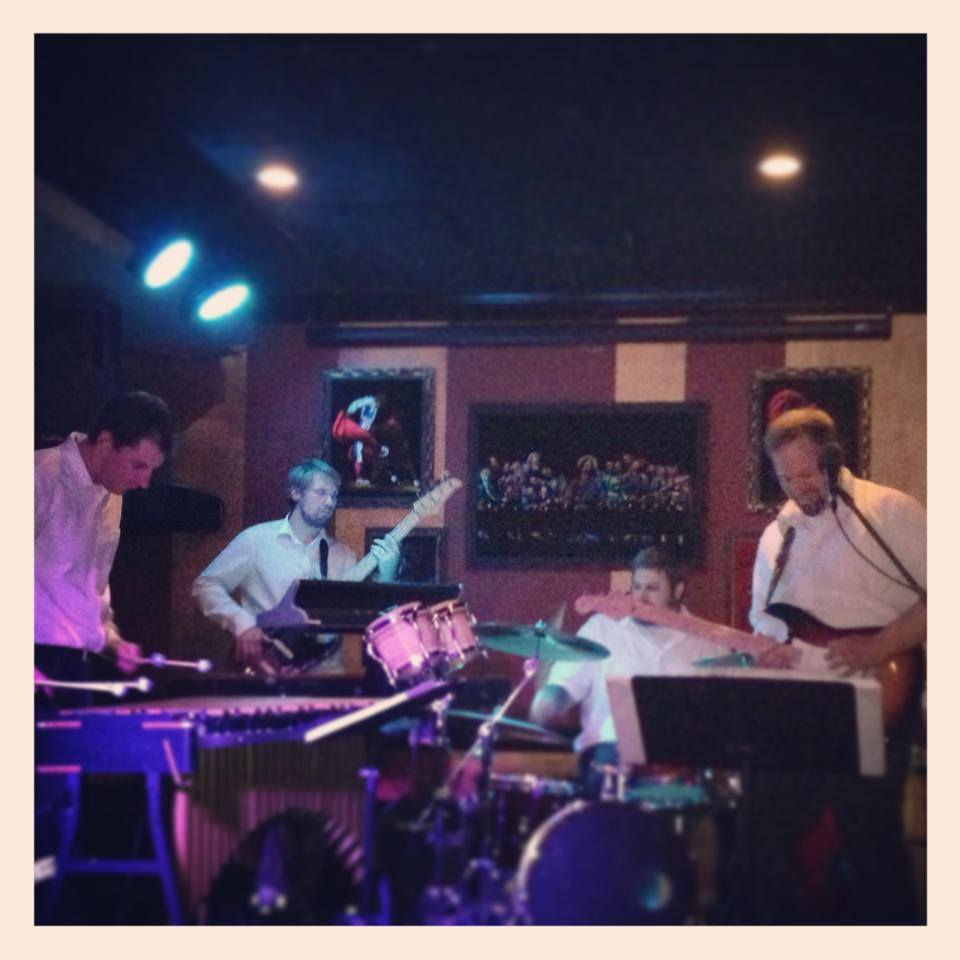
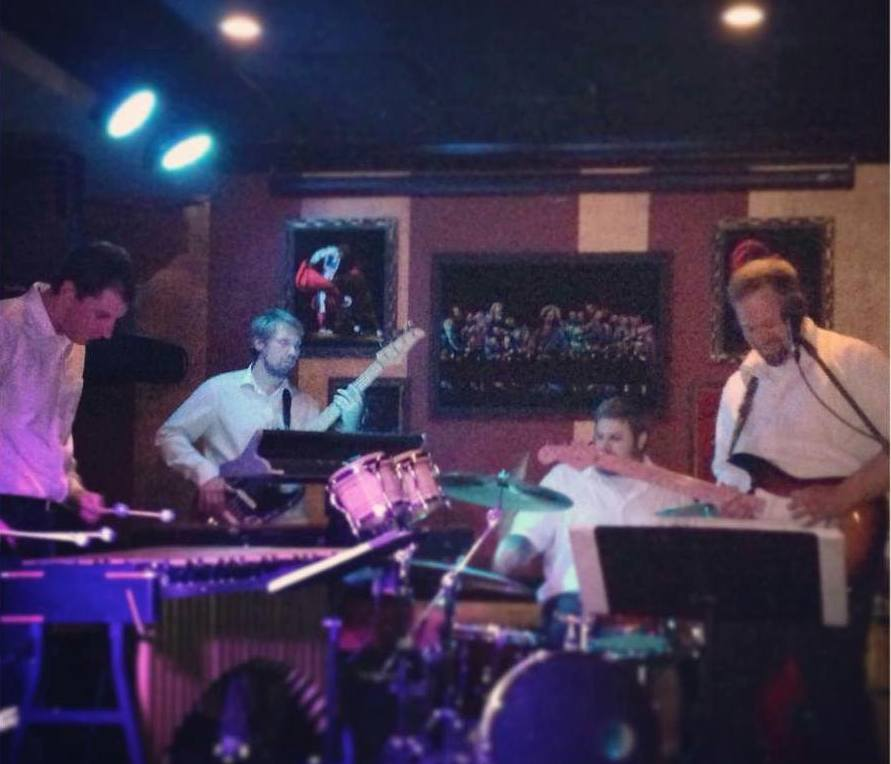
Good Vibes Inc.
Added a Good Vibes Inc. section to the live music page. Image resized.

diff --git a/music.html b/music.html
@@ -88,7 +88,7 @@ body {
 					</td>
 				</tr>
 				<tr>	
-					<td width="460" height="300" valign="top" align="right" style="text-align:left; padding: 15px 0px;">
+					<td width="460" height="340" valign="top" align="right" style="text-align:left; padding: 15px 0px;">
 					  <a href="images/shady_groove_duo.jpg"><img src="images/shady_groove_duo.jpg" alt="Coming soon..." style="float:right; padding: 5px 5px;" 
 					  height="160" width="200"/></a>Shady Groove is an acoustic duo with 15 years experience playing live throughout the 
 					  Philadelphia area. Known for their impeccable harmonies and quality musicianship, their repertoire covers all types and 
@@ -106,11 +106,27 @@ body {
 					</td>
 				</tr>
 				<tr>	
-					<td width="460" height="300" valign="top" align="right" style="text-align:left; padding: 15px 0px;">
+					<td width="460" height="235" valign="top" align="right" style="text-align:left; padding: 15px 0px;">
 					  <a href="images/shady_groove_quartet.jpg"><img src="images/shady_groove_quartet.jpg" alt="Coming soon..." style="float:right; padding: 5px 5px;" 
 					  height="185" width="245"/></a>The Shady Groove Quartet is an electrified version of the Shady Groove duo. With a similar 
 					  repertoire expanding through many genres from the last 6 decades, The Shady Groove Quartet provides entertainment for 
 					  all affairs, from bars and restaurant gigs to weddings and private parties.  
+					</td>
+				</tr>
+				<tr>
+					<td width="460" height="40" valign="bottom">
+						<h4 id="h4">GOOD VIBES INC.</h4>
+					</td>
+				</tr>
+				<tr>	
+					<td width="460" height="300" valign="top" align="right" style="text-align:left; padding: 15px 0px;">
+					  <a href="images/good_vibes.jpg"><img src="images/good_vibes.jpg" alt="Coming soon..." style="float:right; padding: 5px 5px;" 
+					  height="185" width="245"/></a>Good Vibes Inc. is a vibraphone-driven band that mixes many styles of music from 
+					  rock to jazz to funk.  Adding elements of jazz improvisation, Good Vibes Inc. puts a unique spin on popular 
+					  music by artists such as The Beatles, Led Zeppelin, Bob Marley and Herbie Hancock, not to mention many classic 
+					  instrumentals.  Available as an electric quartet or an acoustic duo (vibraphone/acoustic guitar), Good Vibes Inc. 
+					  is able to accommodate any setting, from big events to low key cocktail hours. Please check out a live clip 
+					  <a href="https://www.youtube.com/watch?v=BSLCsZzF1Eo" target="_blank" style="font-weight: bold; color: #00f;">HERE</a>. 
 					</td>
 				</tr>
 			</table>	
